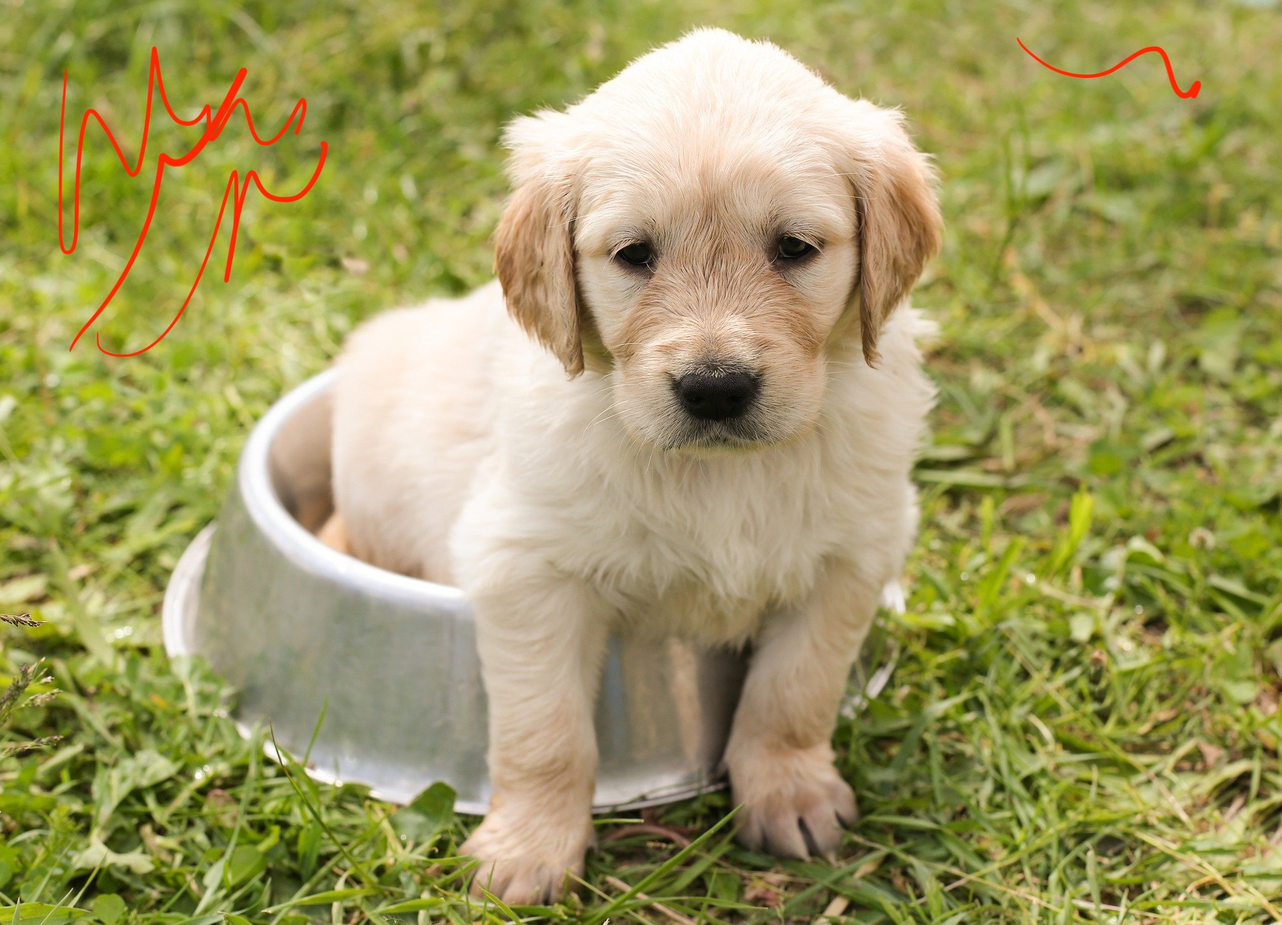
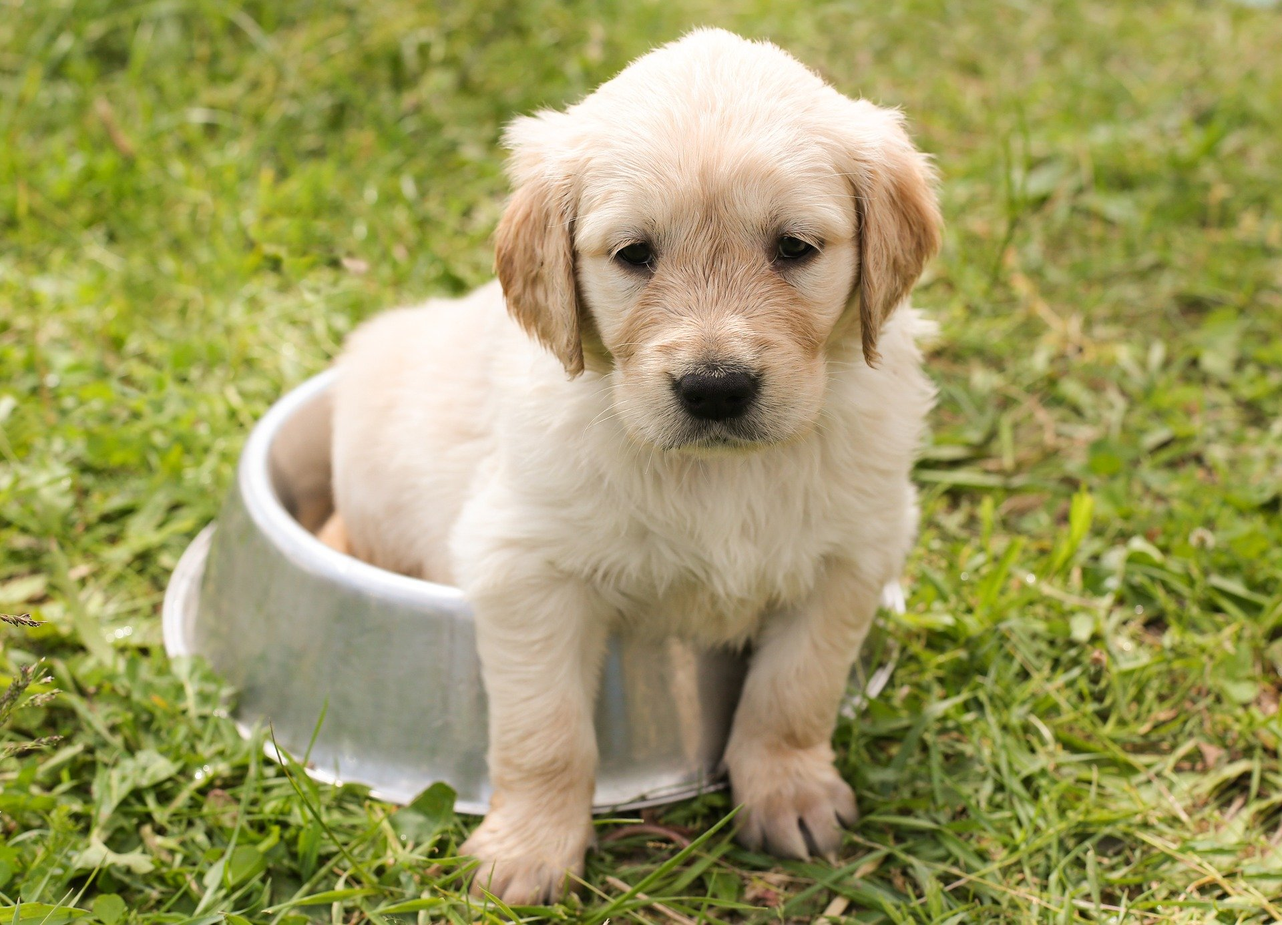
Revert "Edit existing image to test update process"
This reverts commit cef811c177cfcb24a5f5765450f5096a2d7df7ad.

diff --git a/site/sfguides/src/get-started-with-guides/get-started-with-guides.md b/site/sfguides/src/get-started-with-guides/get-started-with-guides.md
@@ -42,8 +42,7 @@ Test line
 ### Test Images
 ![Synthetic Data Generator Demo](assets/puppy.jpg)
 
-### Test Image2
-![Test Image](assets/puppy01.jpg)
+### Layout Basics
 
 At a minimum, the Guide should include the following headings and subheadings. A single sfguide consists of multiple steps. 
 These steps are defined in Markdown using Header 2 tag `##`. Sub-steps will use a Header 3 tag `###` and so forth.  Please avoid going beyond H4 `####`.
